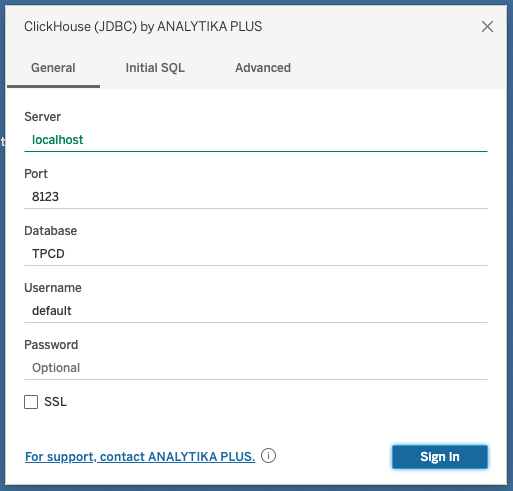
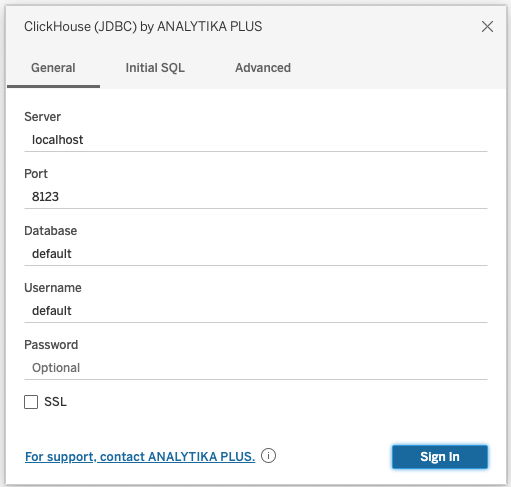
Fixed Tableau issue

Changed region(s): [[0.0, 0.0, 1.0, 1.0], [0.4403, 0.1232, 0.5871, 0.154], [0.2348, 0.1232, 0.3523, 0.154]]

diff --git a/content/lessons/connect-tableau-to-clickhouse/index.md b/content/lessons/connect-tableau-to-clickhouse/index.md
@@ -149,7 +149,7 @@ Now that you have the driver and connector in the approriate folders on your mac
 
 2. From the left-side menu, click on **More** under the **To a Server** section. If everything worked properly, you should see **ClickHouse (JDBC) by ANALYTIKA PLUS** in the list of installed connectors:
 
-<img src="./images/connecttoserver.png" width="100%" alt="" />
+<img src="./images/connecttoserver.png" width="100%" alt="ClickHouse (JDBC) by ANALYTIKA PLUS" />
 
 
 3. Click on **ClickHouse (JDBC) by ANALYTIKA PLUS**  and a dialog window pops up. Enter the following details:
@@ -158,24 +158,70 @@ Now that you have the driver and connector in the approriate folders on your mac
     | ----------- | ----------- |
     | Server      |  **localhost**  |
     | Port   |  **8123** |
-    | Database |  **TPCD** (case sensitive) |
+    | Database |  **default** |
     | Username | **default** |
     | Password | *leave blank* |
 
 <br/>
 
-Your settings shoud look like:
-
+Your settings should look like:
 
 <img src="./images/clickhousesettings.png" width="100%" alt="ClickHouse Settings" />
 
-4. Click the **Sign In** button and you should see the **TPCD** database appear in a new workbook:
+{{% notice note %}}
+Our ClickHouse database is named **TPCD**, but you must set the **Database** to **default** in the dialog above, then select **TPCD** for the **Schema** in the next step. (This is likely due to a bug in the connector, so this behavior could change, but for now you must use **default** as the database.)
+{{% /notice %}}
 
-<img src="./images/newworkbook.png" width="100%" alt="ClickHouse Settings" />
+4. Click the **Sign In** button and you should see a new Tableau workbook:
 
-5. That's it!! You should see the **TPCD** tables and be able to build any type of visualization or table that you want in Tableau.
+<img src="./images/newworkbook.png" width="100%" alt="New Workbook" border="1px" />
+
+
+5. Select **TPCD** from the **Schema** dropdown and you should see the list of tables in **TPCD**:
+
+<img src="./images/tpcdschema.png" width="100%" alt="Select TPCD for the Schema" border="1px" />
+
+You are now ready to build some visualizations in Tableau.
+
+{{< /detail-tag >}}
 
 ***
+
+
+## 5. Building Visualizations in Tableau
+
+Now that have a ClickHouse data source configured in Tableau, let's visualize the data!
+
+{{< detail-tag "Show instructions" >}}
+
+1. Drag the **CUSTOMER** table onto the workbook. Notice the columns appear, but the data table is empty:
+
+<img src="./images/workbook1.png" width="100%" alt="" border="1px" />
+
+2. Click the **Update Now** button and 100 rows from **CUSTOMER** will populate the table.
+
+
+3. Drag the **ORDERS** table into the workbook, then set **Custkey** as the relationship field:
+
+<img src="./images/workbook2.png" width="100%" alt="" border="1px" />
+
+4. Select the **Sheet 1** tab at the bottom of the workbook.
+
+<img src="./images/workbook3.png" width="100%" alt="" border="1px" />
+
+
+5. Suppose you want to know how many specific items were ordered each year. Drag **Orderdate** from **ORDERS** into the **Columns** section (the horizontal field), then drag **Quantity** from **LINEITEM** into the **Rows**. Tableau will generate the following line chart:
+
+<img src="./images/workbook4.png" width="100%" alt="" border="1px" />
+
+{{% notice note %}}
+Tableau is great, and we love that it connects to nicely to ClickHouse! If you are new to Tableau, <a href="https://help.tableau.com/current/pro/desktop/en-us/gettingstarted_overview.htm" target="_blank">check out their documentation</a> for help on building dashboards and visualizations.
+{{% /notice %}}
+
+{{< /detail-tag >}}
+
+*** 
+
 
 You can connect Tableau to ClickHouse using the generic ODBC/JDBC ClickHouse driver, but we really like how this tool from ANALYTIKA PLUS simplifies the process of setting up the connection. If you have any issues with the connector, feel free to reach out to ANALYTIKA PLUS on <a href="https://github.com/analytikaplus/clickhouse-tableau-connector-jdbc/issues" target="_blank">GitHub</a>.
 
